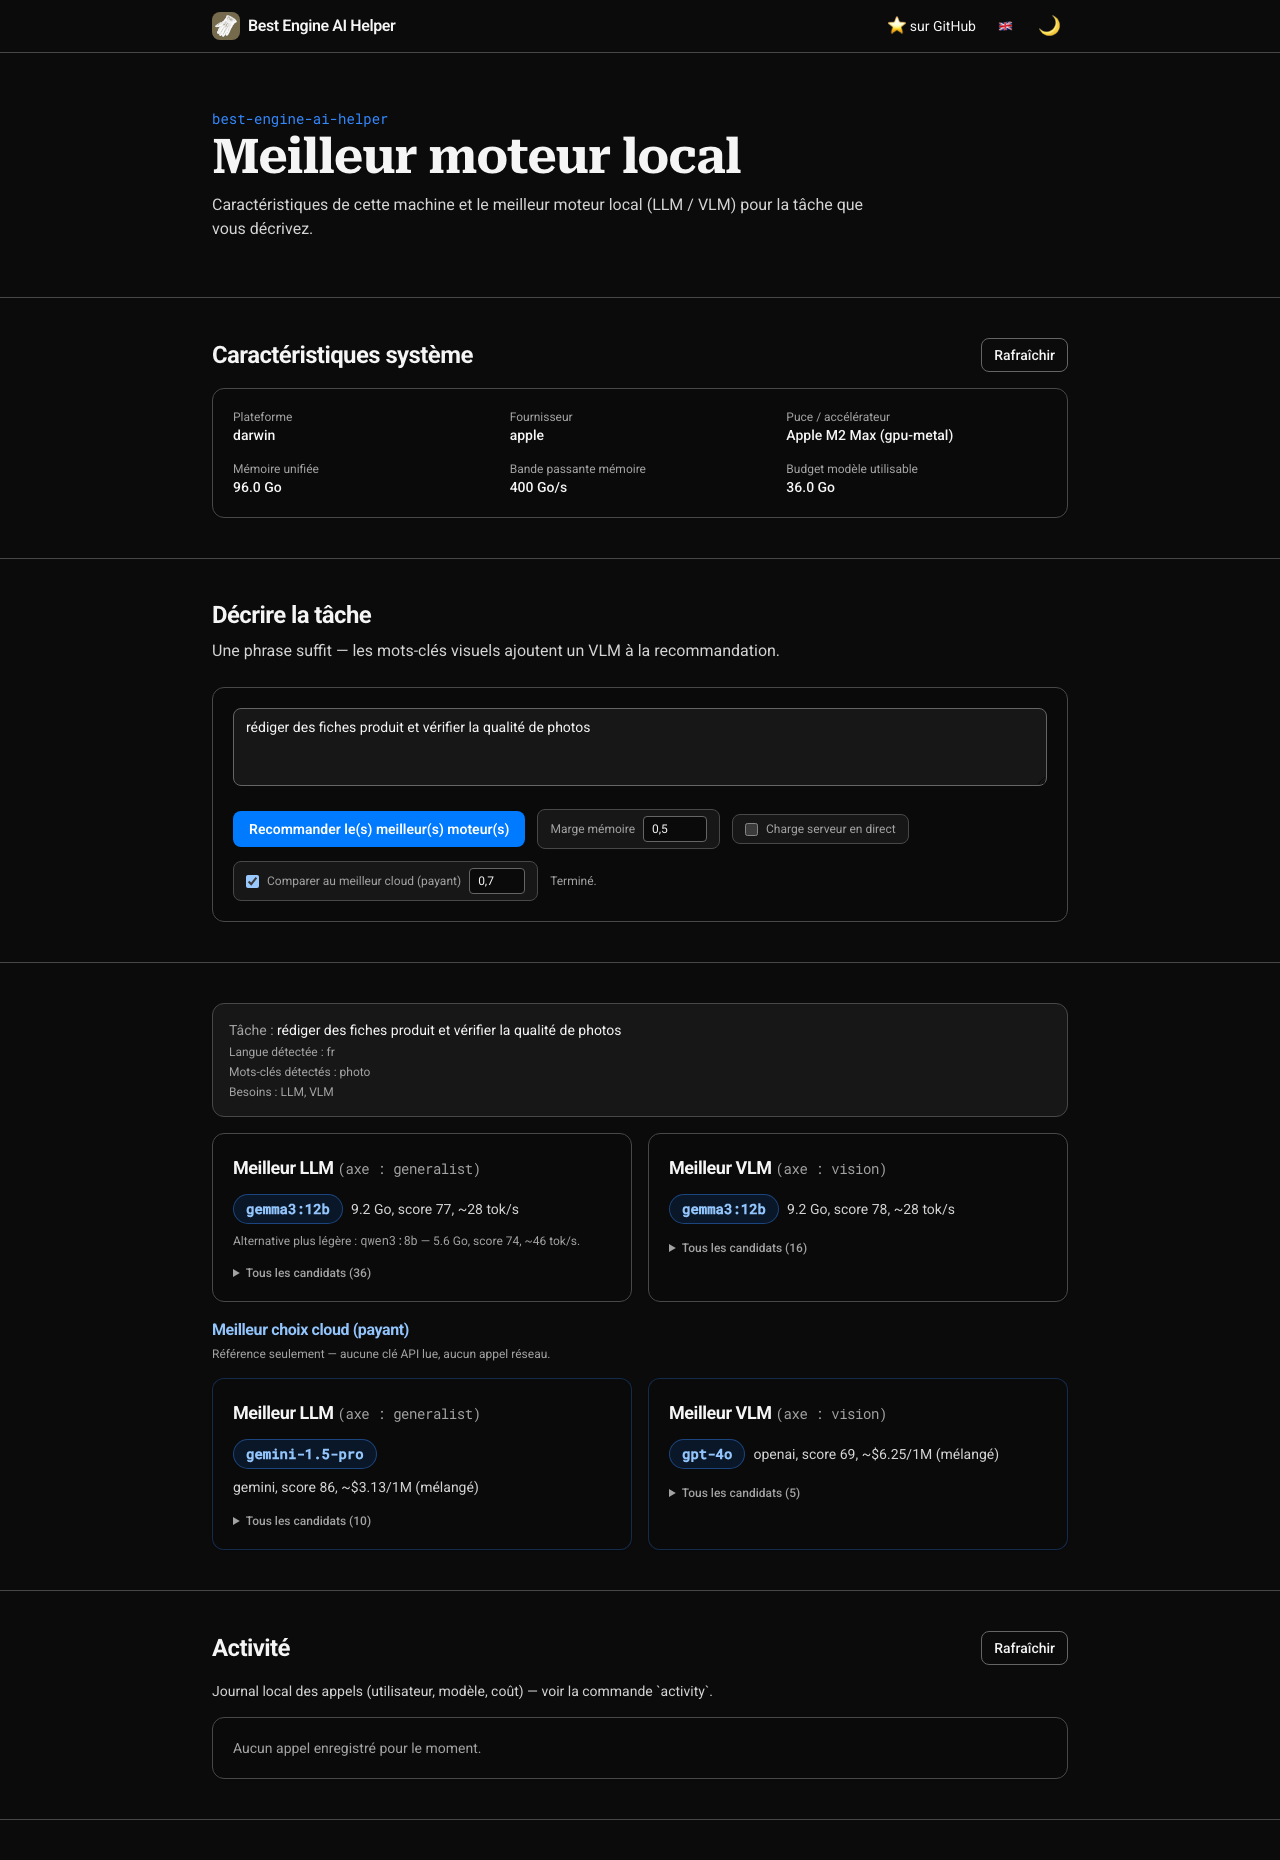
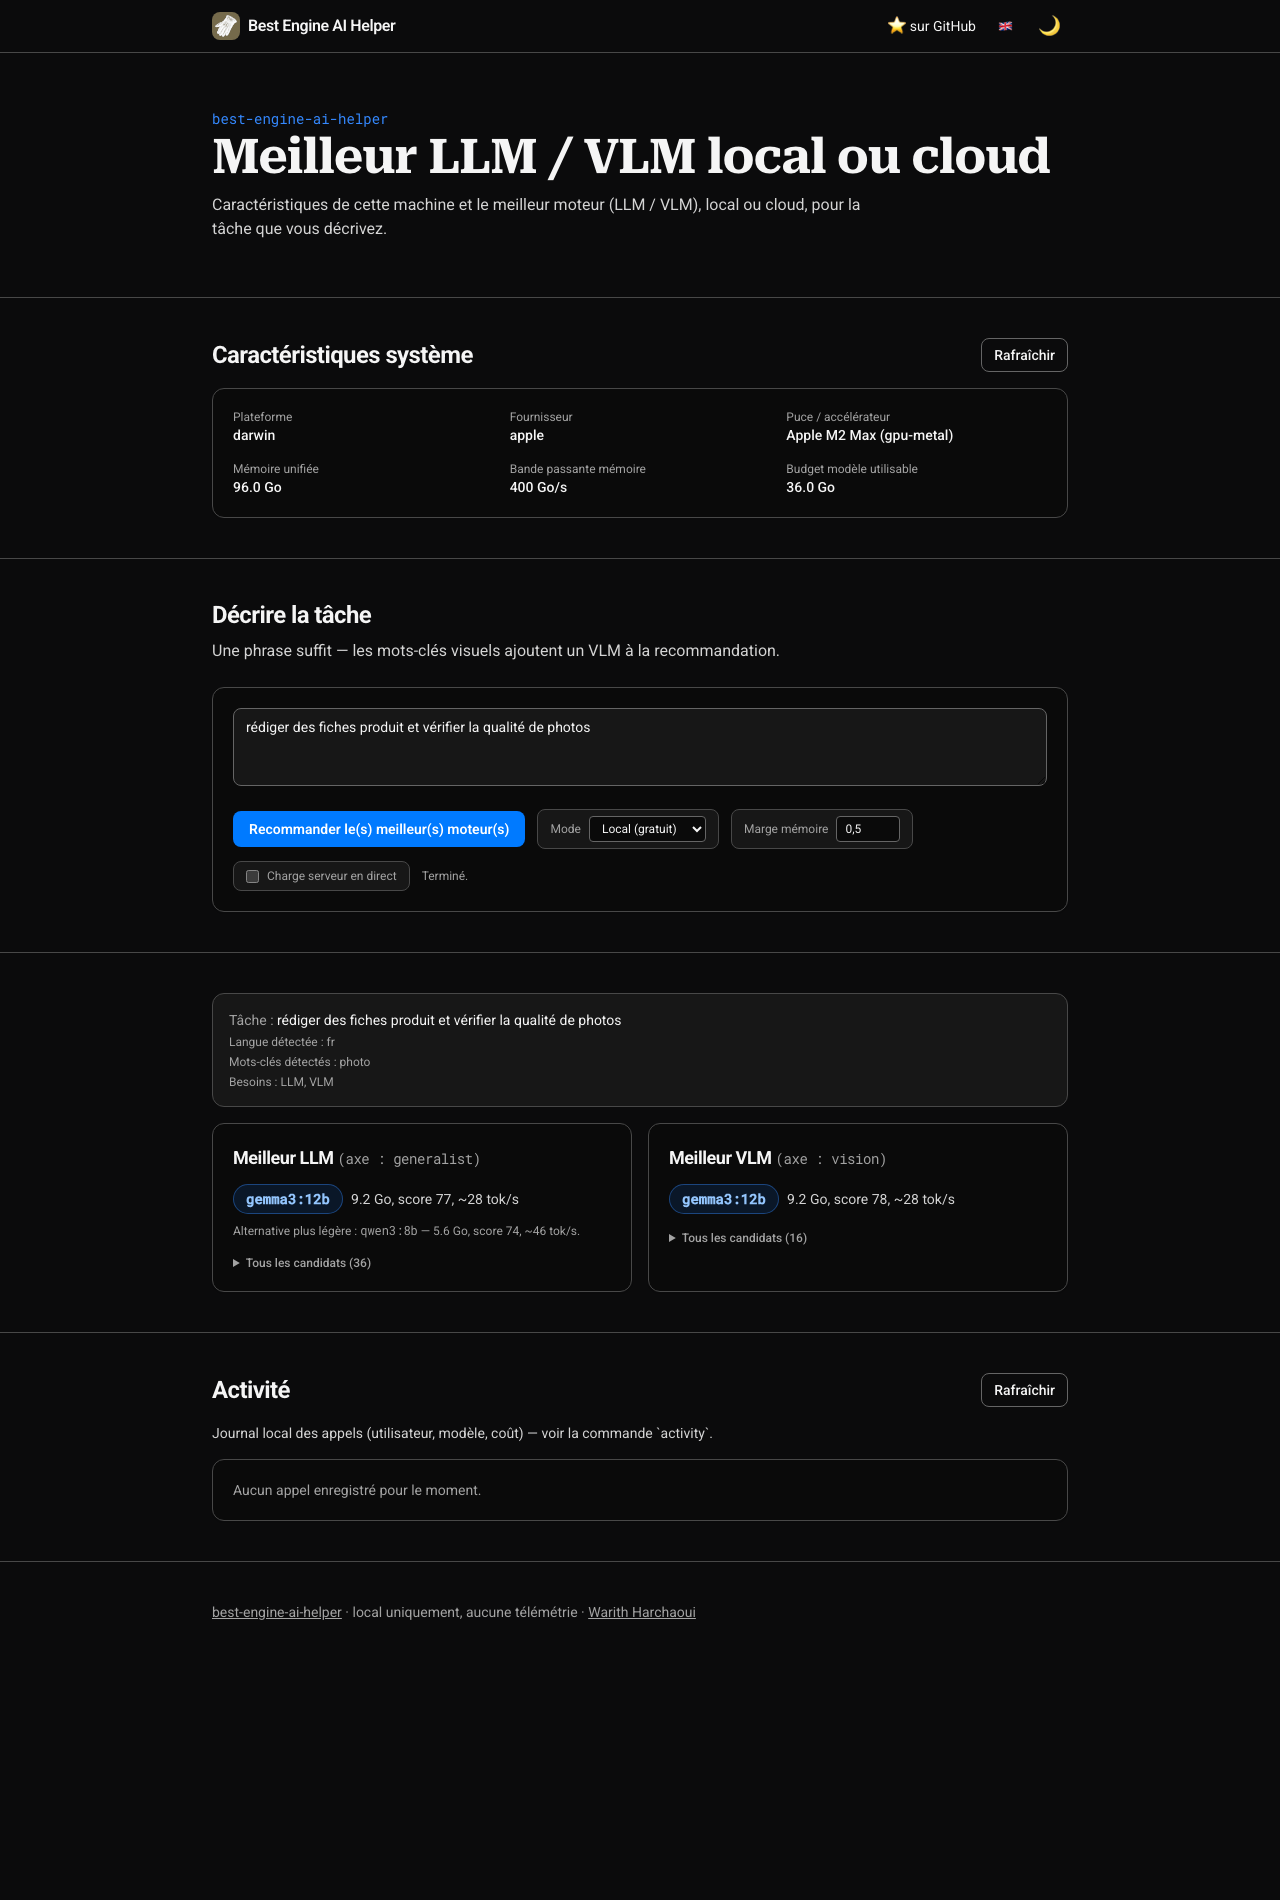
GUI: replace the cloud-comparison checkbox with a real local/cloud mode switch
The previous checkbox always showed local + an optional cloud comparison
section side by side. Per feedback, the GUI now has a mode dropdown mirroring
llm.brief.yaml's own mode: local / mode: cloud field: only the selected
mode's recommendation renders, with only that mode's controls shown
(headroom + live for local; quality_vs_cost for cloud). Switching modes
re-runs the query immediately if a task is already filled in; /gui?mode=cloud
pre-selects it. Hero title updated to "Best local or cloud LLM / VLM" to
match. New gui-cloud.png screenshot; all four screenshots recaptured against
the new UI in real headless Chrome (light, dark, local, cloud).

diff --git a/best_engine_ai_helper/gui.py b/best_engine_ai_helper/gui.py
@@ -69,7 +69,9 @@ _HTML_TOKEN_TO_KEY: dict[str, str] = {
     "RUN_BTN": "run_button",
     "HEADROOM": "headroom_label",
     "LIVE_LABEL": "live_toggle_label",
-    "CLOUD_LABEL": "cloud_toggle_label",
+    "MODE_LABEL": "mode_select_label",
+    "MODE_LOCAL": "mode_local_option",
+    "MODE_CLOUD": "mode_cloud_option",
     "QVC_LABEL": "quality_vs_cost_label",
     "FOOTER_NOTE": "footer_note",
     "ACTIVITY_H2": "activity_heading",
@@ -131,7 +133,6 @@ _JS_NAME_TO_KEY: dict[str, str] = {
     "matched": "matched_keywords",
     "needs": "needs_label",
     "tps": "unit_tps",
-    "cloudHeading": "cloud_section_heading",
     "cloudNote": "cloud_reference_note",
     "thProvider": "th_provider",
     "thPrice": "th_price",
@@ -308,30 +309,37 @@ _GUI_TEMPLATE: str = r"""<!doctype html>
             </button>
             <label class="flex items-center gap-2 rounded-lg border border-neutral-200 bg-neutral-50 px-3 py-1.5 text-xs text-neutral-600
                           dark:border-neutral-800 dark:bg-neutral-900 dark:text-neutral-400">
+              {{MODE_LABEL}}
+              <select id="mode"
+                      class="rounded border border-neutral-300 bg-white px-2 py-1 text-xs text-neutral-900
+                             focus-visible:outline-none focus-visible:ring-2 focus-visible:ring-brand-blue
+                             dark:border-neutral-600 dark:bg-neutral-950 dark:text-neutral-100">
+                <option value="local">{{MODE_LOCAL}}</option>
+                <option value="cloud">{{MODE_CLOUD}}</option>
+              </select>
+            </label>
+            <label id="headroom-field" class="flex items-center gap-2 rounded-lg border border-neutral-200 bg-neutral-50 px-3 py-1.5 text-xs text-neutral-600
+                          dark:border-neutral-800 dark:bg-neutral-900 dark:text-neutral-400">
               {{HEADROOM}}
               <input id="headroom" type="number" min="0" max="0.5" step="0.05" value="0.5"
                      class="w-16 rounded border border-neutral-300 bg-white px-2 py-1 text-xs text-neutral-900
                             focus-visible:outline-none focus-visible:ring-2 focus-visible:ring-brand-blue
                             dark:border-neutral-600 dark:bg-neutral-950 dark:text-neutral-100" />
             </label>
-            <label class="flex items-center gap-2 rounded-lg border border-neutral-200 bg-neutral-50 px-3 py-1.5 text-xs text-neutral-600
+            <label id="live-field" class="flex items-center gap-2 rounded-lg border border-neutral-200 bg-neutral-50 px-3 py-1.5 text-xs text-neutral-600
                           dark:border-neutral-800 dark:bg-neutral-900 dark:text-neutral-400">
               <input id="live" type="checkbox"
                      class="rounded border-neutral-300 text-brand-blue focus-visible:outline-none focus-visible:ring-2 focus-visible:ring-brand-blue
                             dark:border-neutral-600" />
               {{LIVE_LABEL}}
             </label>
-            <label class="flex items-center gap-2 rounded-lg border border-neutral-200 bg-neutral-50 px-3 py-1.5 text-xs text-neutral-600
+            <label id="qvc-field" style="display:none" class="items-center gap-2 rounded-lg border border-neutral-200 bg-neutral-50 px-3 py-1.5 text-xs text-neutral-600
                           dark:border-neutral-800 dark:bg-neutral-900 dark:text-neutral-400">
-              <input id="cloud" type="checkbox" checked
-                     class="rounded border-neutral-300 text-brand-blue focus-visible:outline-none focus-visible:ring-2 focus-visible:ring-brand-blue
-                            dark:border-neutral-600" />
-              {{CLOUD_LABEL}}
+              {{QVC_LABEL}}
               <input id="qvc" type="number" min="0" max="1" step="0.1" value="0.7"
                      class="w-14 rounded border border-neutral-300 bg-white px-2 py-1 text-xs text-neutral-900
                             focus-visible:outline-none focus-visible:ring-2 focus-visible:ring-brand-blue
-                            dark:border-neutral-600 dark:bg-neutral-950 dark:text-neutral-100"
-                     title="{{QVC_LABEL}}" />
+                            dark:border-neutral-600 dark:bg-neutral-950 dark:text-neutral-100" />
             </label>
             <span id="status" class="text-xs text-neutral-500 dark:text-neutral-400" role="status" aria-live="polite"></span>
           </div>
@@ -512,9 +520,33 @@ _GUI_TEMPLATE: str = r"""<!doctype html>
       if (e.key === "Enter" && (e.metaKey || e.ctrlKey)) runRecommend();
     });
 
-    // Deep link: /gui?task=... pre-fills the box and runs it on load, so a
-    // recommendation is shareable by URL. ?lang is handled server-side.
-    const urlTask = new URLSearchParams(location.search).get("task");
+    // The mode dropdown reflects best-engine's own mode: local / mode: cloud
+    // brief distinction: only ONE mode's controls are relevant at a time
+    // (headroom/live for local, quality_vs_cost for cloud), and only that
+    // mode's recommendation is rendered -- see applyModeVisibility/renderResults.
+    function applyModeVisibility() {
+      const isCloud = $("mode").value === "cloud";
+      $("headroom-field").style.display = isCloud ? "none" : "flex";
+      $("live-field").style.display = isCloud ? "none" : "flex";
+      $("qvc-field").style.display = isCloud ? "flex" : "none";
+    }
+    $("mode").addEventListener("change", () => {
+      applyModeVisibility();
+      // Re-run immediately if a task is already filled in, so switching
+      // modes feels like a real toggle, not a setting that needs a second click.
+      if ($("task").value.trim()) runRecommend();
+    });
+    applyModeVisibility();
+
+    // Deep link: /gui?task=...&mode=cloud pre-fills the box and runs it on
+    // load, so a recommendation is shareable by URL. ?lang is handled server-side.
+    const urlParams = new URLSearchParams(location.search);
+    const urlTask = urlParams.get("task");
+    const urlMode = urlParams.get("mode");
+    if (urlMode === "cloud" || urlMode === "local") {
+      $("mode").value = urlMode;
+      applyModeVisibility();
+    }
     if (urlTask) {
       $("task").value = urlTask;
       runRecommend();
@@ -522,11 +554,11 @@ _GUI_TEMPLATE: str = r"""<!doctype html>
 
     async function runRecommend() {
       const task = $("task").value.trim() || null;
+      const mode = $("mode").value;
       // Matches score.MAX_HEADROOM: any value above 0.5 is silently clamped
       // down to it server-side, so the input's own range is capped at 0.5.
       const headroom = Number($("headroom").value) || 0.5;
       const live = $("live").checked;
-      const cloud = $("cloud").checked;
       const quality_vs_cost = Number($("qvc").value);
       $("run-recommend").disabled = true;
       status(T.analyzing);
@@ -535,11 +567,14 @@ _GUI_TEMPLATE: str = r"""<!doctype html>
         const res = await fetch("/api/recommend", {
           method: "POST",
           headers: { "Content-Type": "application/json" },
-          body: JSON.stringify({ task, headroom, live, cloud, quality_vs_cost }),
+          // Both local and cloud pick data are always fetched (both are
+          // cheap: no API key, no network); the mode dropdown decides which
+          // one is RENDERED, in renderResults(report, mode) below.
+          body: JSON.stringify({ task, headroom, live, cloud: true, quality_vs_cost }),
         });
         if (!res.ok) throw new Error(`HTTP ${res.status}: ${await res.text()}`);
         const report = await res.json();
-        renderResults(report);
+        renderResults(report, mode);
         status(T.done);
       } catch (err) {
         $("results").innerHTML =
@@ -663,7 +698,7 @@ _GUI_TEMPLATE: str = r"""<!doctype html>
         </div>`;
     }
 
-    function renderResults(report) {
+    function renderResults(report, mode) {
       const task = report.task || {};
       const parts = [];
 
@@ -675,33 +710,33 @@ _GUI_TEMPLATE: str = r"""<!doctype html>
           <p class="mt-1 text-xs text-neutral-500 dark:text-neutral-400">${T.needs} ${task.kinds.map((k) => k.toUpperCase()).join(", ")}</p>
         </div>`);
 
-      const load = report.server_load;
-      if (load) {
-        const gpuPart = load.gpu_percent != null ? `, GPU ${Math.round(load.gpu_percent)}%` : "";
-        parts.push(`
-          <div class="mt-3 rounded-xl border border-neutral-200 bg-neutral-50 p-4 text-xs text-neutral-600 dark:border-neutral-800 dark:bg-neutral-900 dark:text-neutral-400">
-            <span class="font-medium text-neutral-700 dark:text-neutral-300">${T.serverLoad}</span>
-            ${fmt1(load.available_ram_gb)} ${T.gb} ${T.ramFree}, CPU ${Math.round(load.cpu_percent)}%${gpuPart},
-            ${T.diskFree} ${fmt1(load.disk_free_gb)} ${T.gb} (${Math.round(load.disk_percent_used)}%),
-            ${T.runningEngines} ${load.running_engines}
-          </div>`);
-      }
-
-      const kindBlocks = Object.entries(report.recommendations || {});
-      const gridClass = kindBlocks.length > 1 ? "mt-4 grid gap-4 sm:grid-cols-2" : "mt-4 grid gap-4";
-      parts.push(`<div class="${gridClass}">${kindBlocks.map(([kind, block]) => kindCard(kind, block)).join("")}</div>`);
-
-      if (report.cloud) {
-        const cloudBlocks = Object.entries(report.cloud.recommendations || {});
+      // The mode dropdown is a real switch, not a comparison view: only the
+      // selected mode's recommendation renders, mirroring how a llm.brief.yaml
+      // carries exactly one mode (local or cloud), never both at once.
+      if (mode === "cloud") {
+        const cloudBlocks = Object.entries((report.cloud || {}).recommendations || {});
         const cloudGridClass = cloudBlocks.length > 1 ? "mt-4 grid gap-4 sm:grid-cols-2" : "mt-4 grid gap-4";
         parts.push(`
-          <div class="mt-6">
-            <h3 class="flex items-center gap-2 text-base font-bold tracking-tight text-brand-navy dark:text-blue-300">
-              ${T.cloudHeading}
-            </h3>
-            <p class="mt-1 text-xs text-neutral-500 dark:text-neutral-400">${T.cloudNote}</p>
+          <div class="mt-4">
+            <p class="text-xs text-neutral-500 dark:text-neutral-400">${T.cloudNote}</p>
             <div class="${cloudGridClass}">${cloudBlocks.map(([kind, block]) => cloudKindCard(kind, block)).join("")}</div>
           </div>`);
+      } else {
+        const load = report.server_load;
+        if (load) {
+          const gpuPart = load.gpu_percent != null ? `, GPU ${Math.round(load.gpu_percent)}%` : "";
+          parts.push(`
+            <div class="mt-3 rounded-xl border border-neutral-200 bg-neutral-50 p-4 text-xs text-neutral-600 dark:border-neutral-800 dark:bg-neutral-900 dark:text-neutral-400">
+              <span class="font-medium text-neutral-700 dark:text-neutral-300">${T.serverLoad}</span>
+              ${fmt1(load.available_ram_gb)} ${T.gb} ${T.ramFree}, CPU ${Math.round(load.cpu_percent)}%${gpuPart},
+              ${T.diskFree} ${fmt1(load.disk_free_gb)} ${T.gb} (${Math.round(load.disk_percent_used)}%),
+              ${T.runningEngines} ${load.running_engines}
+            </div>`);
+        }
+
+        const kindBlocks = Object.entries(report.recommendations || {});
+        const gridClass = kindBlocks.length > 1 ? "mt-4 grid gap-4 sm:grid-cols-2" : "mt-4 grid gap-4";
+        parts.push(`<div class="${gridClass}">${kindBlocks.map(([kind, block]) => kindCard(kind, block)).join("")}</div>`);
       }
 
       $("results").innerHTML = parts.join("");

diff --git a/tests/test_api.py b/tests/test_api.py
@@ -140,16 +140,17 @@ def test_activity_gui_and_static_endpoints(client: TestClient, tmp_path: Path) -
 
     fr = client.get("/gui")
     assert fr.status_code == 200 and "text/html" in fr.headers["content-type"]
-    assert '<html lang="fr"' in fr.text and "Meilleur moteur local" in fr.text
+    assert '<html lang="fr"' in fr.text and "Meilleur LLM / VLM local ou cloud" in fr.text
     assert 'href="/gui?lang=en"' in fr.text and "/api/recommend" in fr.text
-    # The cloud-comparison checkbox (on by default) and its quality/cost input.
-    assert 'id="cloud" type="checkbox" checked' in fr.text and 'id="qvc"' in fr.text
-    assert "Comparer au meilleur cloud" in fr.text
+    # The mode dropdown (local/cloud) and its quality/cost input (hidden until
+    # cloud mode is picked).
+    assert 'id="mode"' in fr.text and 'value="cloud"' in fr.text and 'id="qvc"' in fr.text
+    assert "Local (gratuit)" in fr.text and "Cloud (payant)" in fr.text
 
     en = client.get("/gui", params={"lang": "en"}).text
-    assert '<html lang="en"' in en and "Best local engine" in en
-    assert "Meilleur moteur local" not in en
-    assert "Compare against the best cloud" in en
+    assert '<html lang="en"' in en and "Best local or cloud LLM / VLM" in en
+    assert "Meilleur LLM / VLM local ou cloud" not in en
+    assert "Local (free)" in en and "Cloud (paid)" in en
     # The EN placeholder's double quotes must be HTML-escaped (regression guard).
     assert "&quot;write product descriptions" in en and 'placeholder="e.g. "write' not in en
 

diff --git a/GUI.md b/GUI.md
@@ -76,20 +76,27 @@ text-assistant profile; see `recommend.parse_task`.
 
 ![Recommendation results](assets/screenshots/gui-recommendation.png)
 
-The memory headroom (default `0.5`) is editable next to the button, matching
-`report --headroom`. The **live server load** checkbox next to it matches
-`report --live`: checked, the recommendation also weighs current free RAM,
-CPU/GPU/disk usage, and already-running engines, and the result panel gets an
-extra line showing that snapshot. Unchecked (the default), the recommendation
-is a deterministic function of the hardware alone.
+A **mode** dropdown next to the button mirrors the brief's own `mode: local` /
+`mode: cloud` switch (see the README's "Two modes: local (free) and cloud
+(paid)"): only one mode's recommendation renders at a time, and its own
+controls come with it.
 
-Below it, a **best cloud (paid) pick** section shows the best PAID model for
-the same task, checked by default and matching `report`'s own default:
-reference only, no API key read and no network call, ranking the bundled
-`pricing.yaml` catalog (see the README's "Two modes: local (free) and cloud
-(paid)"). The number field next to the checkbox is `quality_vs_cost` (0..1,
-default 0.7): `1.0` picks purely on benchmark score, `0.0` picks purely on
-price. Uncheck the box to hide the section and skip that ranking entirely.
+- **Local** (default): the memory headroom field (default `0.5`, matching
+  `report --headroom`) and the **live server load** checkbox (matches
+  `report --live`: checked, the recommendation also weighs current free RAM,
+  CPU/GPU/disk usage, and already-running engines, with an extra line
+  showing that snapshot; unchecked, the recommendation is a deterministic
+  function of the hardware alone).
+- **Cloud**: the `quality_vs_cost` field (0..1, default 0.7: `1.0` picks
+  purely on benchmark score, `0.0` picks purely on price) replaces them. The
+  cloud pick is reference only: no API key read, no network call, just the
+  bundled `pricing.yaml` catalog ranked the same way `report --cloud` ranks
+  it.
+
+![Cloud mode results](assets/screenshots/gui-cloud.png)
+
+Switching modes re-runs the last query if one was already shown; the deep
+link `/gui?task=...&mode=cloud` pre-selects a mode and runs immediately.
 
 ### 3. Activity (local call ledger)
 

diff --git a/CHANGELOG.md b/CHANGELOG.md
@@ -22,6 +22,14 @@ All notable changes to best-engine-ai-helper are documented here.
   `--quality-vs-cost`, `--cloud-provider` to tune it) — reference only,
   needs no API key and reaches no network. `to_markdown` renders it as an
   extra section when a report carries a `"cloud"` key.
+- **GUI gains a local/cloud mode switch**: a `mode` dropdown next to the
+  task box mirrors the brief's own `mode: local` / `mode: cloud` field —
+  only the selected mode's recommendation renders, with only that mode's
+  controls shown (memory headroom + live server load for local;
+  `quality_vs_cost` for cloud, reference only, no API key or network call).
+  `POST /api/recommend` gains matching `cloud`, `quality_vs_cost`, and
+  `cloud_provider` fields, reusing `cloud_recommend()` so the CLI and GUI
+  share the same ranking logic.
 
 ### Fixed
 
